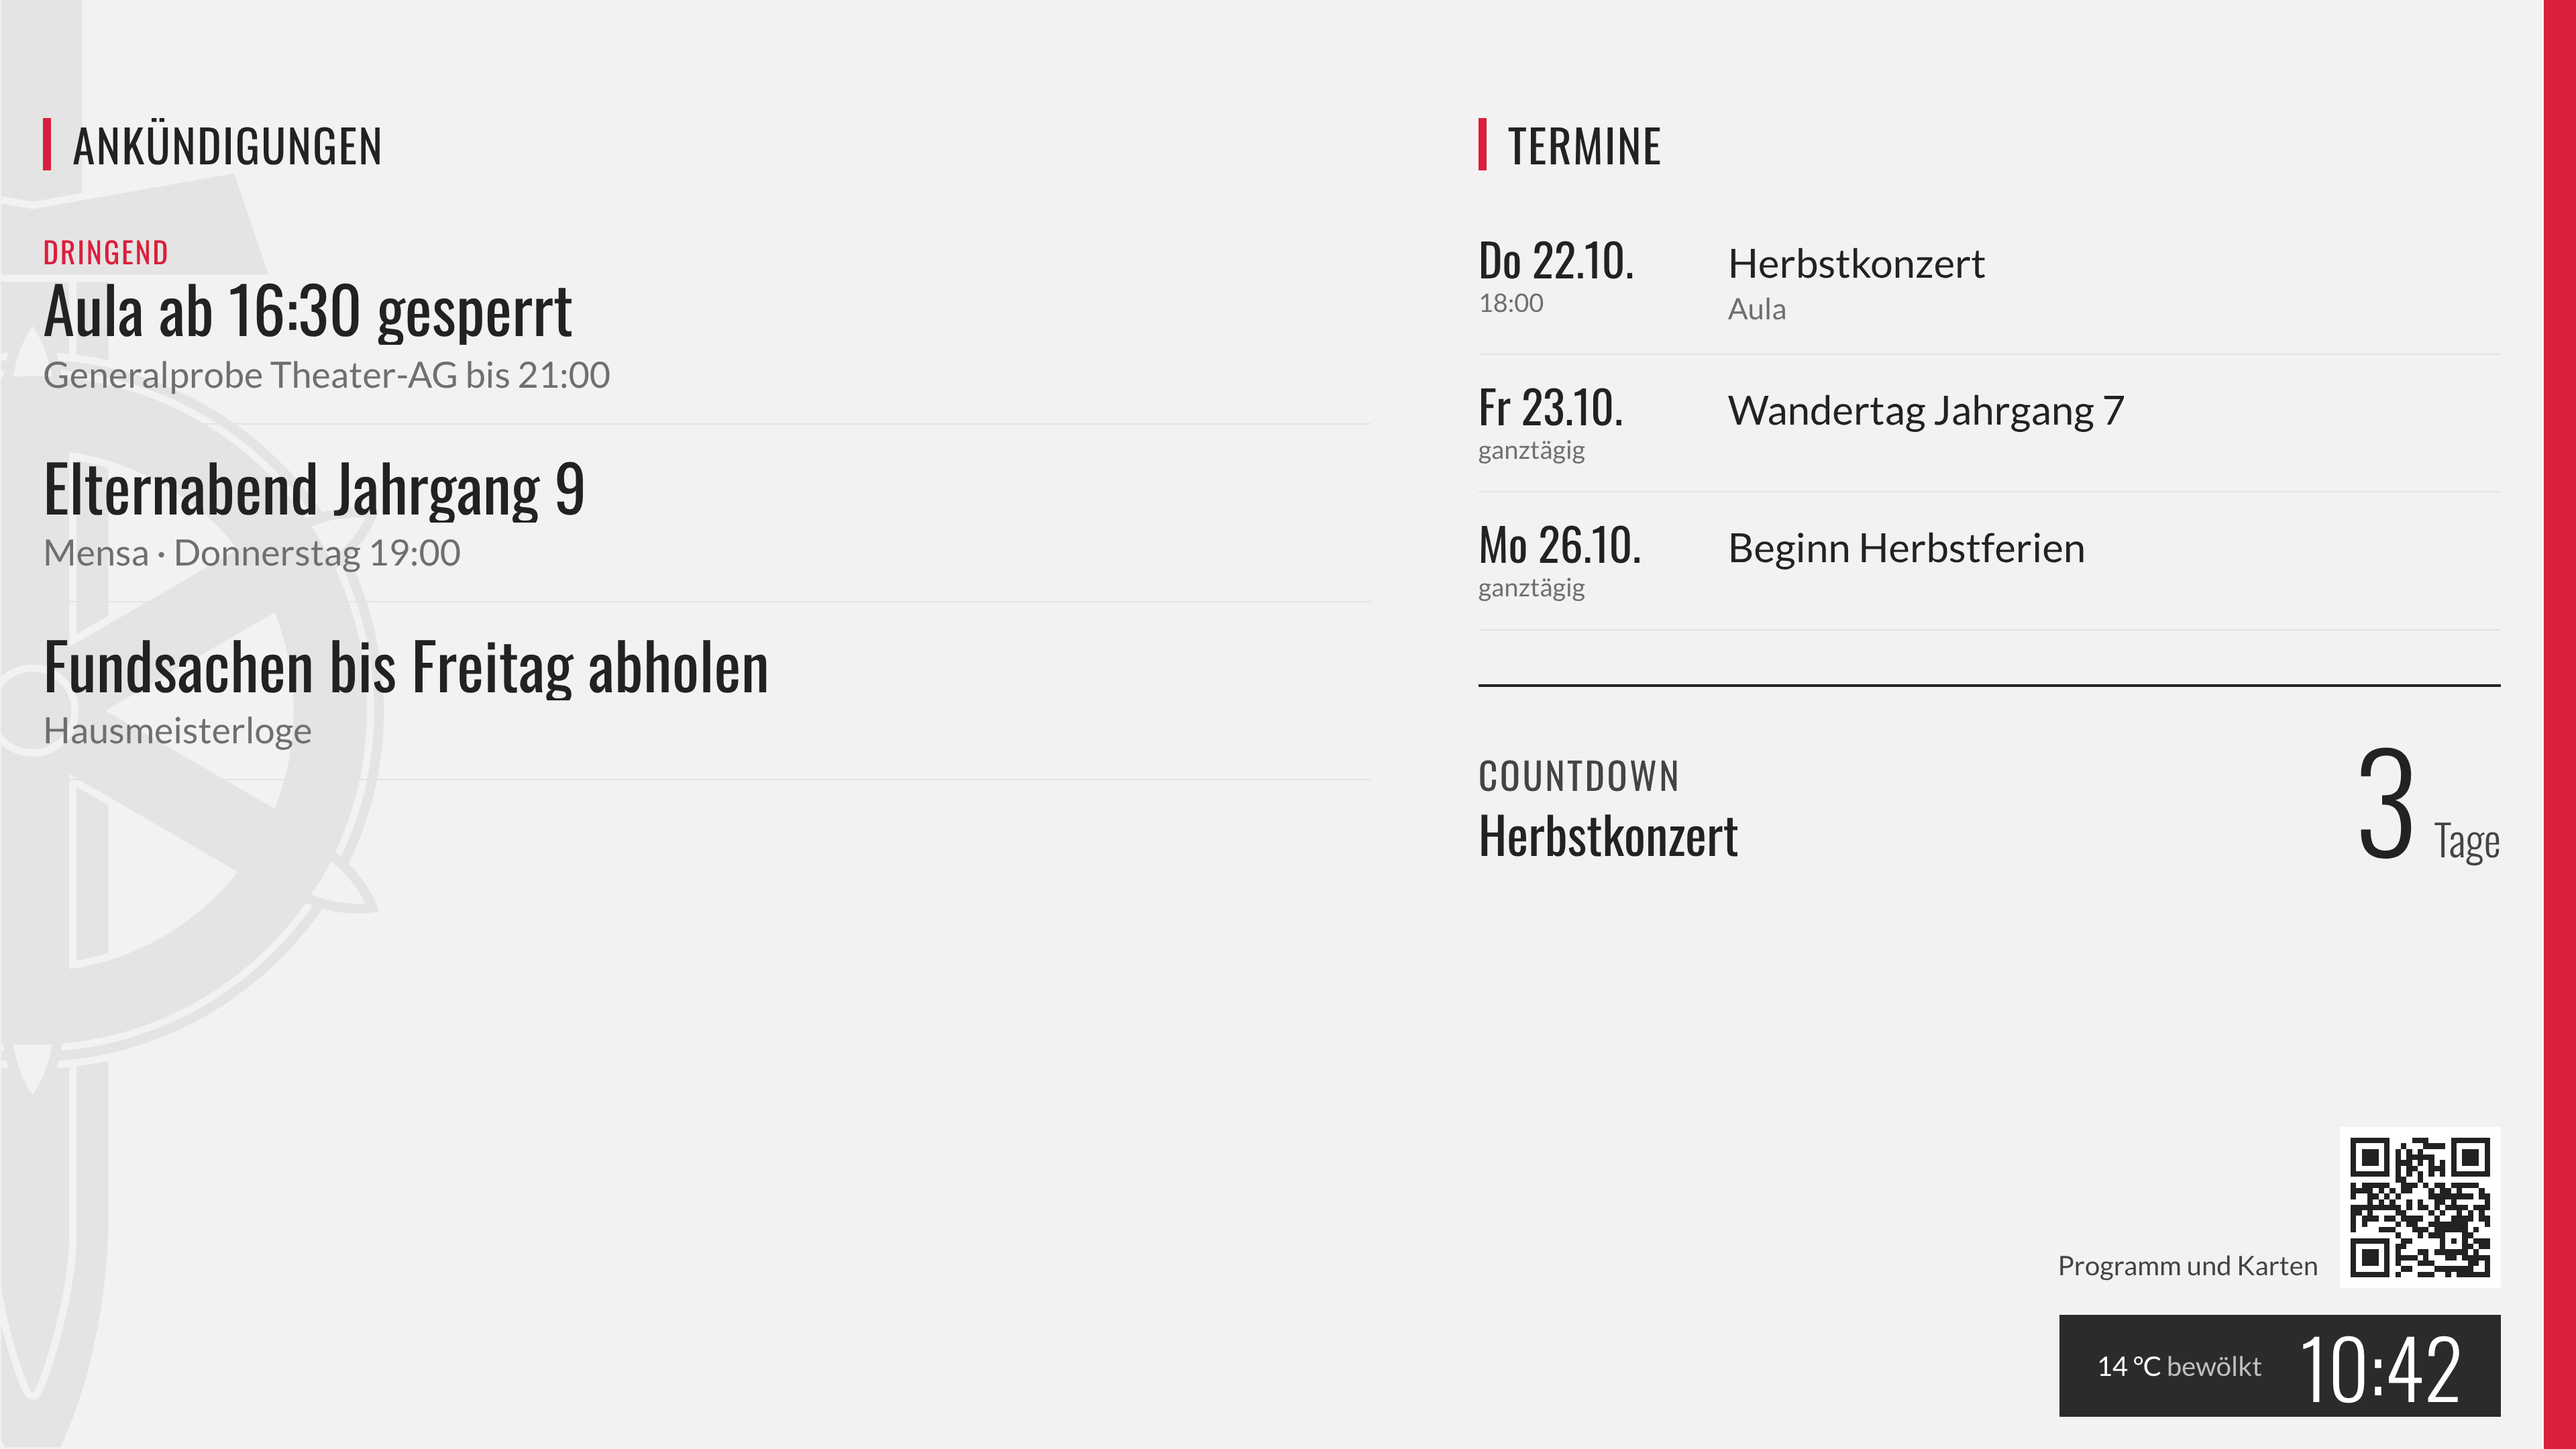
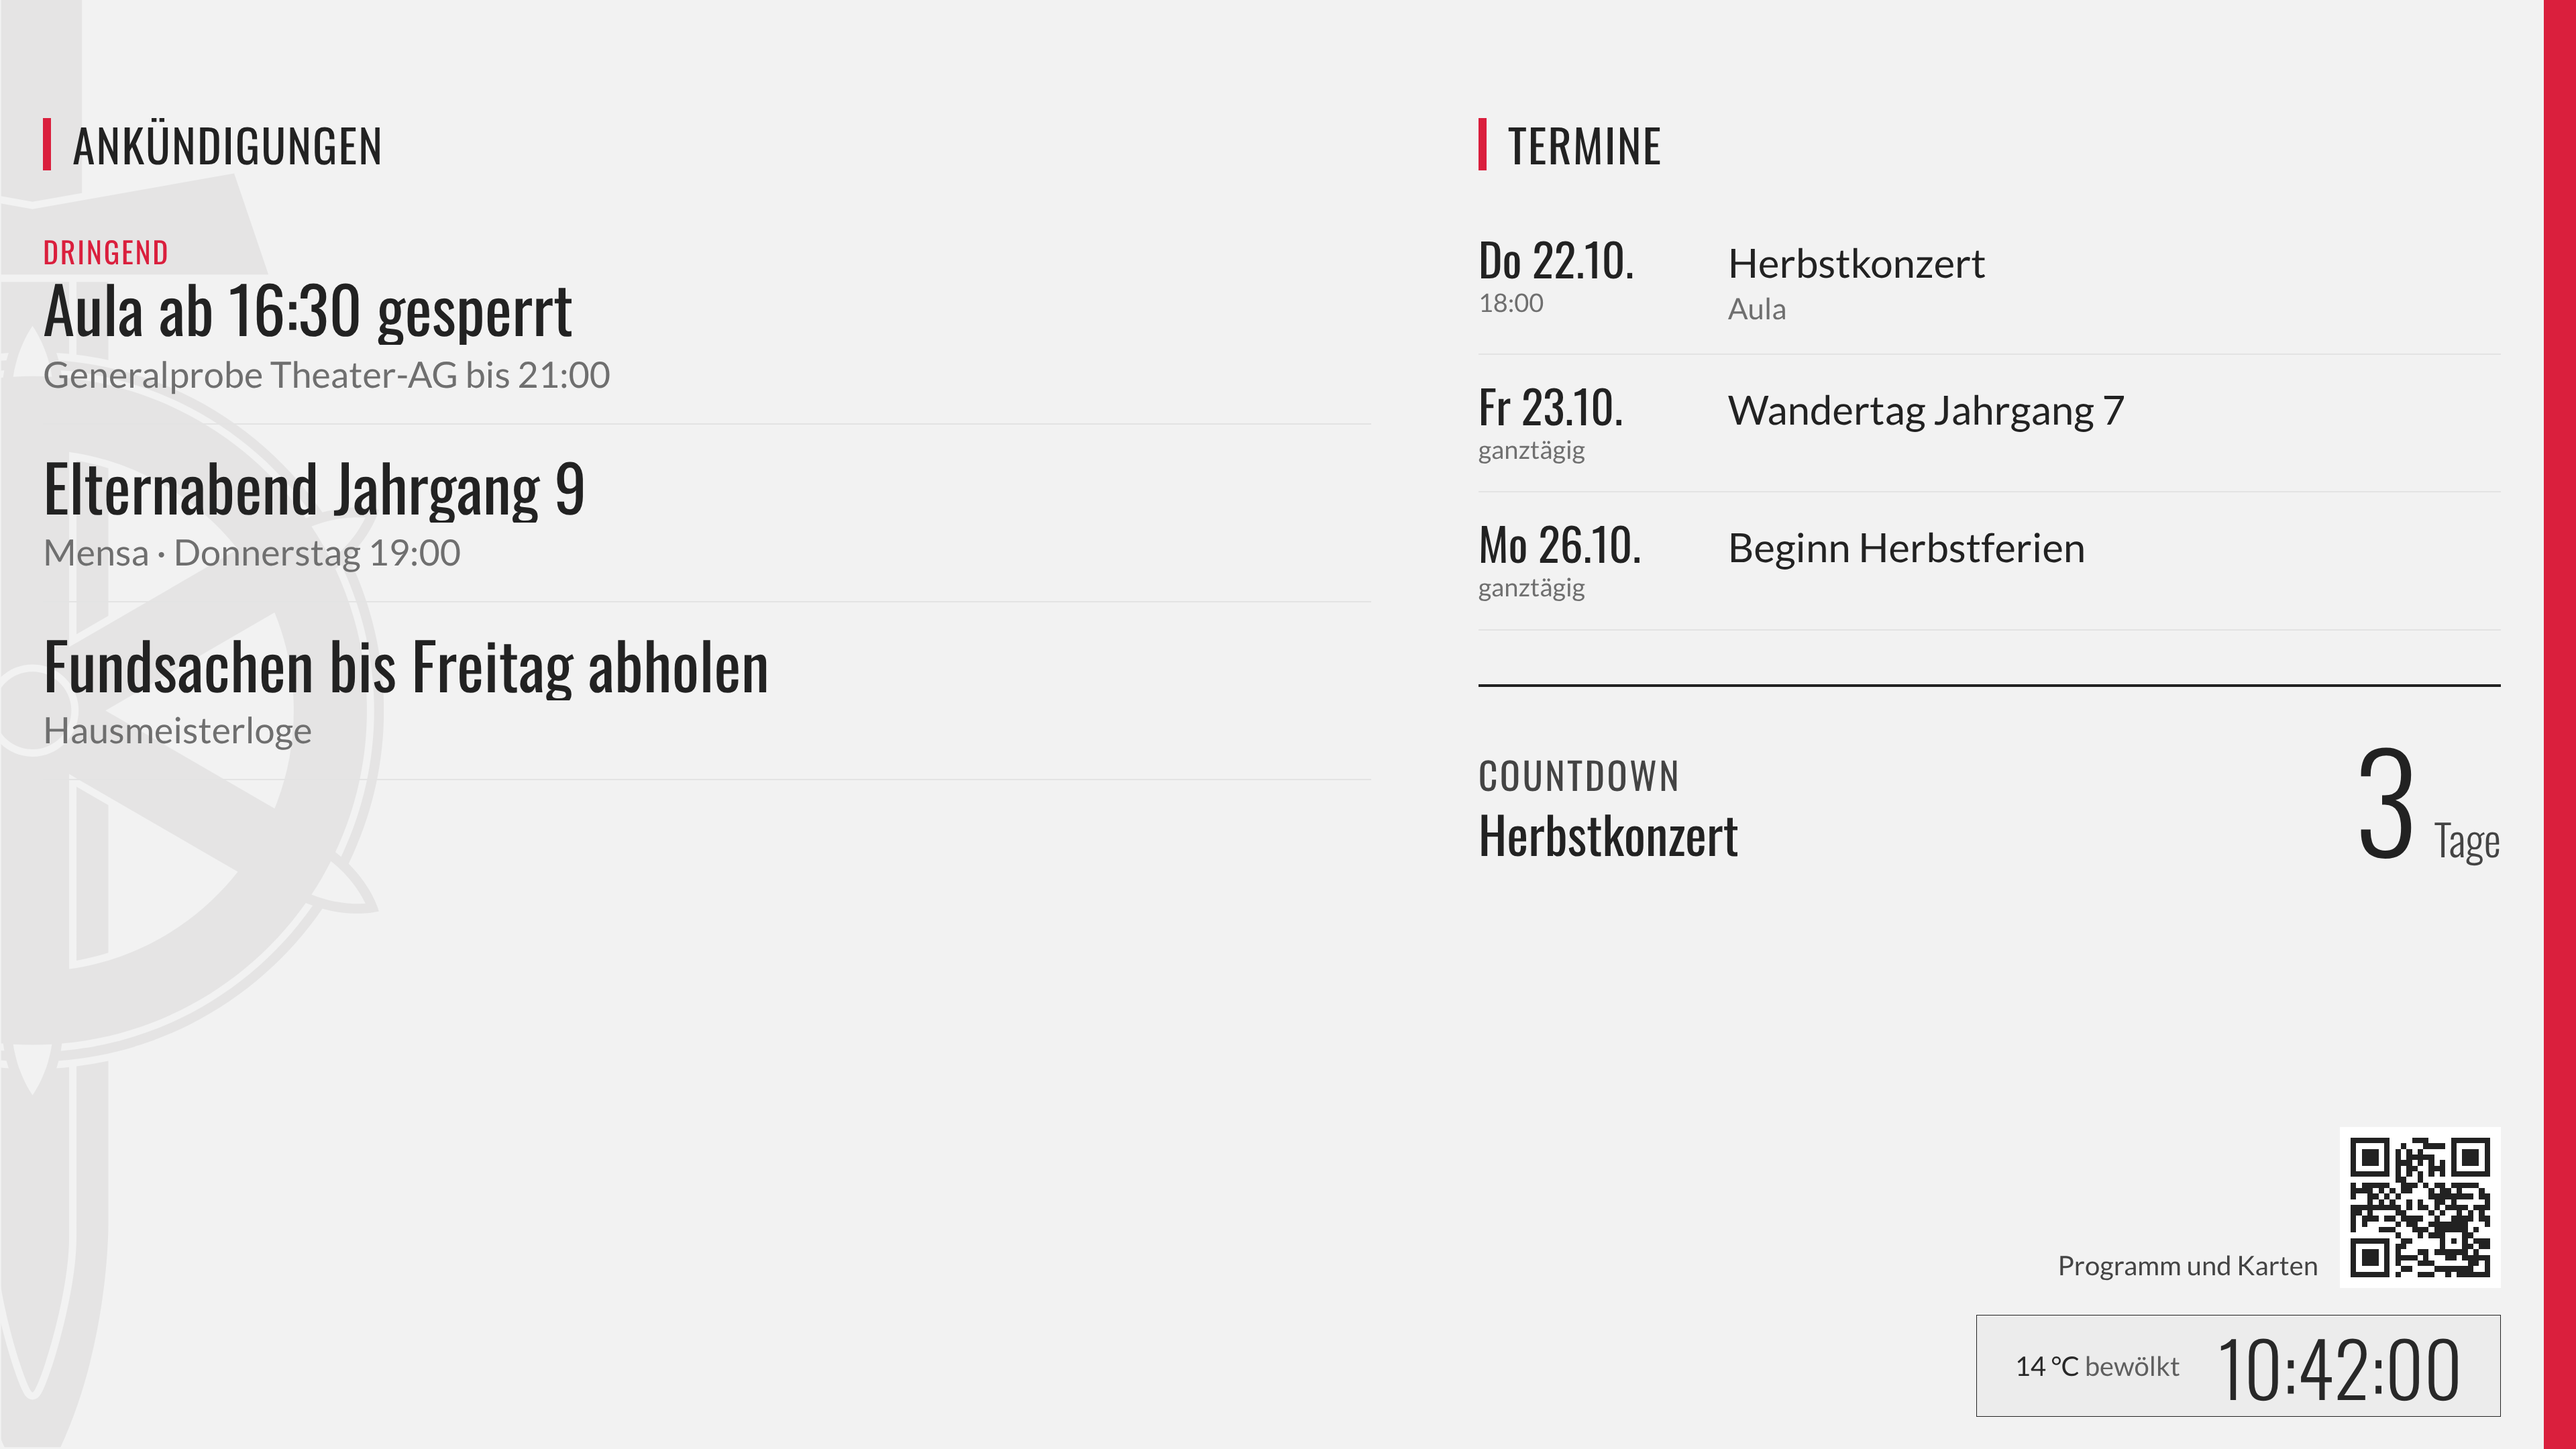
feat(display): Uhr mit Sekunden, Box-Uhr im hellen Stil hell
Claude-Session: https://claude.ai/code/session_01D7nDH9UeEyBKSeRzQw1WpF

Changed region(s): [[0.7812, 0.8995, 0.9688, 0.9926]]

diff --git a/frontend/src/components/display/frame/ClockBox.jsx b/frontend/src/components/display/frame/ClockBox.jsx
@@ -1,10 +1,11 @@
 import { useClock } from '../lib/useClock'
-import { formatLongDate, formatTemperature, formatTime, formatWeekday } from '../lib/format'
+import { formatLongDate, formatTemperature, formatTime, formatTimeSeconds, formatWeekday } from '../lib/format'
 
 // Uhr der Anzeige. Einzige sekündlich rendernde Stelle neben useClock-Nutzern wie dem Wiederholungs-Countdown.
 //   variant "header":  große Uhr links, Datum (und Wetter) rechts, Linie darunter (Stil A und C);
 //                      stacked stapelt Datum und Wetter (Hochformat)
-//   variant "box":     dunkle Box unten rechts (Stil B, dichte Ansichten)
+//   variant "box":     Box unten rechts (Stil B, dichte Ansichten); Farben folgen dem Ton (--d-box-*): hell im hellen Stil, dunkel im dunklen
+// Alle Varianten zeigen HH:MM:SS; "Stand HH:MM" bleibt ohne Sekunden.
 //   variant "compact": nur die Uhrzeit (Zustandsbildschirme, Ruhemodus)
 // staleSince setzt den Hinweis "Stand HH:MM" (letzte gültige Daten).
 export default function ClockBox({ now, weather, staleSince, variant = 'header', stacked = false, className = '' }) {
@@ -28,7 +29,7 @@ function HeaderClock({ time, weather, staleSince, stacked, className }) {
   return (
     <header className={`flex items-end justify-between gap-[3rem] d-rule-bottom pb-[1.125rem] ${className}`}>
       <div className="flex items-baseline gap-[2.25rem]">
-        <span className="d-oswald text-[8.25rem] font-light leading-[0.9] tracking-[-0.01em]">{formatTime(time)}</span>
+        <span className="d-oswald text-[8.25rem] font-light leading-[0.9] tracking-[-0.01em] tabular-nums whitespace-nowrap">{formatTimeSeconds(time)}</span>
         {staleSince != null && <StaleHint since={staleSince} className="text-[1.75rem] text-(--d-fg-soft)" />}
       </div>
       <div className={`flex pb-[0.5rem] ${stacked ? 'flex-col items-end gap-[1.25rem]' : 'items-end gap-[3.5rem]'}`}>
@@ -54,24 +55,24 @@ function WeatherBlock({ weather }) {
 function BoxClock({ time, weather, staleSince, className }) {
   const side = weather || staleSince != null
   return (
-    <div className={`flex min-w-[15rem] items-center justify-center gap-[1.75rem] bg-[#2b2b2b] px-[1.75rem] text-[#fff] ${className}`}>
+    <div className={`flex min-w-[18rem] items-center justify-center gap-[1.75rem] border border-(--d-box-line) bg-(--d-box-bg) px-[1.75rem] text-(--d-box-fg) ${className}`}>
       {side && (
         <div className="flex flex-col items-end text-[1.25rem] leading-[1.35]">
           {weather && (
             <span className="d-lato whitespace-nowrap">
               {formatTemperature(weather.temperature)}
-              {weather.description && <span className="text-[#ffffffb3]"> {weather.description}</span>}
+              {weather.description && <span className="text-(--d-box-soft)"> {weather.description}</span>}
             </span>
           )}
           {staleSince != null && (
             <span className="whitespace-nowrap">
-              <span className="d-oswald uppercase tracking-[0.06em] text-[#ffffffb3]">Stand</span>{' '}
+              <span className="d-oswald uppercase tracking-[0.06em] text-(--d-box-soft)">Stand</span>{' '}
               <span className="d-lato">{formatTime(staleSince)}</span>
             </span>
           )}
         </div>
       )}
-      <span className="d-oswald text-[3.75rem] font-light leading-none">{formatTime(time)}</span>
+      <span className="d-oswald text-[3.5rem] font-light leading-none tabular-nums whitespace-nowrap">{formatTimeSeconds(time)}</span>
     </div>
   )
 }
@@ -79,7 +80,7 @@ function BoxClock({ time, weather, staleSince, className }) {
 function CompactClock({ time, staleSince, className }) {
   return (
     <div className={`flex flex-col items-end ${className}`}>
-      <span className="d-oswald font-light leading-[0.9]">{formatTime(time)}</span>
+      <span className="d-oswald font-light leading-[0.9] tabular-nums whitespace-nowrap">{formatTimeSeconds(time)}</span>
       {staleSince != null && <StaleHint since={staleSince} className="mt-[0.75rem] text-[1.5rem] text-(--d-fg-soft)" />}
     </div>
   )

diff --git a/frontend/src/components/display/frame/ClockBox.test.jsx b/frontend/src/components/display/frame/ClockBox.test.jsx
@@ -1,0 +1,31 @@
+import { describe, it, expect, afterEach } from 'vitest'
+import { act } from 'react'
+import { createRoot } from 'react-dom/client'
+import ClockBox from './ClockBox'
+
+globalThis.IS_REACT_ACT_ENVIRONMENT = true
+
+let root, host
+function render(props) {
+  host = document.createElement('div')
+  document.body.appendChild(host)
+  root = createRoot(host)
+  act(() => { root.render(<ClockBox {...props} />) })
+  return host
+}
+afterEach(() => { act(() => root.unmount()); host.remove() })
+
+const now = new Date(2026, 9, 21, 9, 5, 7)
+const stale = new Date(2026, 9, 21, 9, 1, 0)
+
+describe('ClockBox', () => {
+  it.each(['header', 'box', 'compact'])('zeigt in der Variante %s HH:MM:SS', (variant) => {
+    expect(render({ now, variant }).textContent).toContain('09:05:07')
+  })
+
+  it('Stand-Hinweis bleibt ohne Sekunden', () => {
+    const text = render({ now, variant: 'box', staleSince: stale }).textContent
+    expect(text).toContain('Stand 09:01')
+    expect(text).not.toContain('09:01:')
+  })
+})

diff --git a/frontend/src/components/display/display.css b/frontend/src/components/display/display.css
@@ -19,6 +19,10 @@
   --d-line: #e3e3e3;
   --d-chip: #2b2b2b;
   --d-chip-fg: #ffffff;
+  --d-box-bg: #ececec;
+  --d-box-fg: #282828;
+  --d-box-soft: #5f5f5f;
+  --d-box-line: #d4d4d4;
 }
 
 .d-tone-dense {
@@ -31,6 +35,10 @@
   --d-line: #e3e3e3;
   --d-chip: #2b2b2b;
   --d-chip-fg: #ffffff;
+  --d-box-bg: #ececec;
+  --d-box-fg: #282828;
+  --d-box-soft: #5f5f5f;
+  --d-box-line: #d4d4d4;
 }
 
 .d-tone-dark {
@@ -43,6 +51,10 @@
   --d-line: #2c2c2c;
   --d-chip: #f2f2f2;
   --d-chip-fg: #111111;
+  --d-box-bg: #2b2b2b;
+  --d-box-fg: #ffffff;
+  --d-box-soft: #ffffffb3;
+  --d-box-line: #2b2b2b;
 }
 
 .d-oswald {
